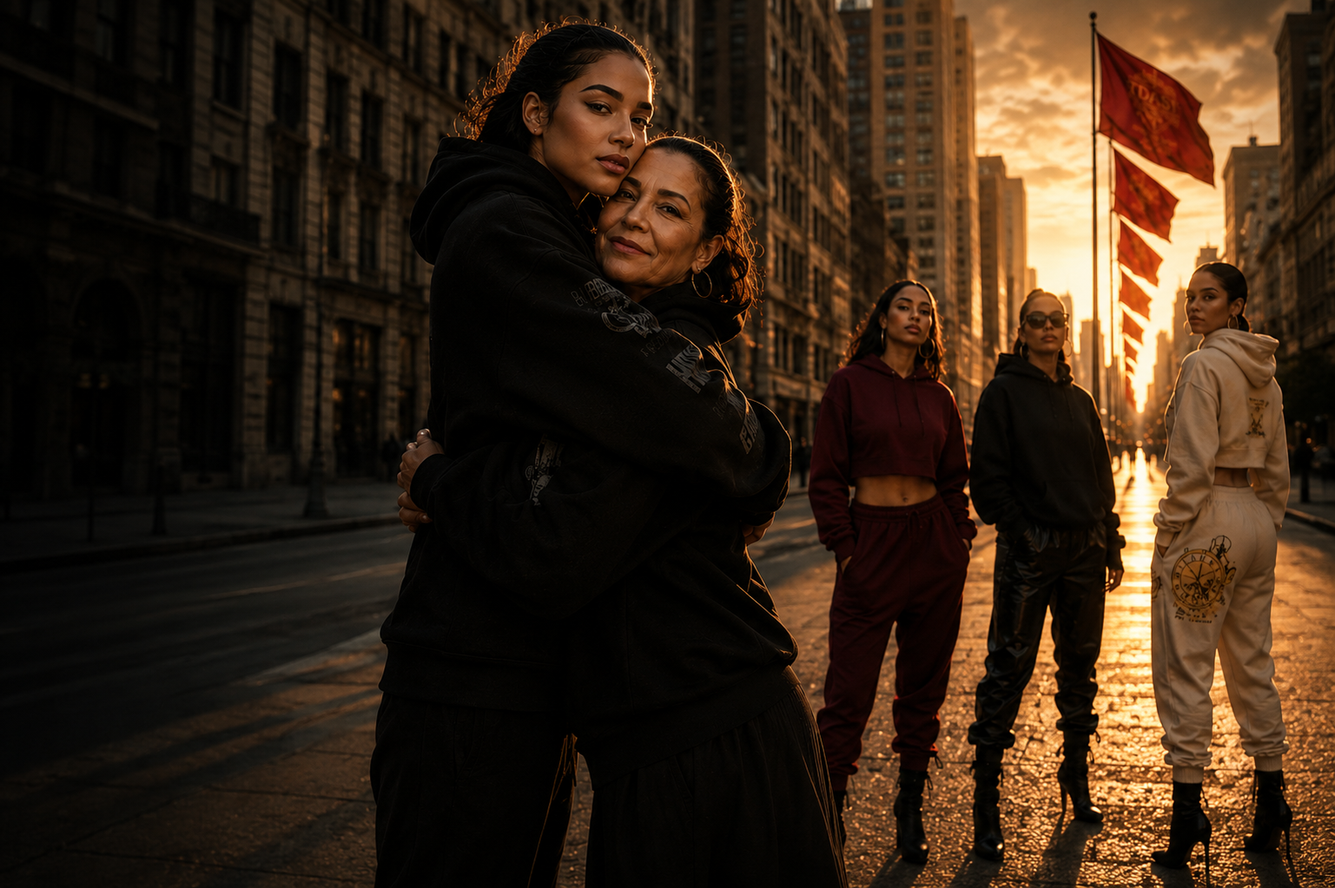
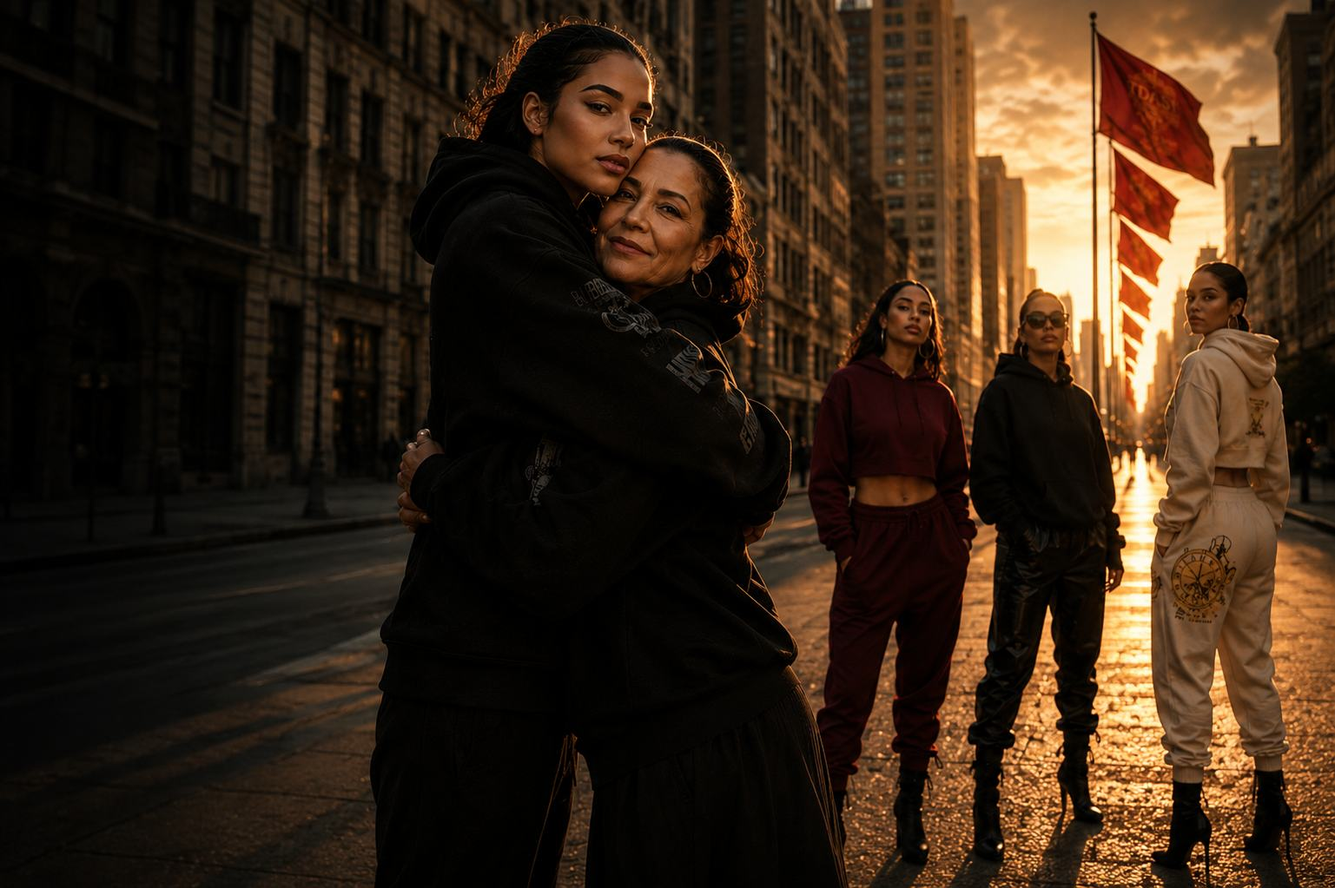
Add files via upload

diff --git a/index.html b/index.html
@@ -8,7 +8,7 @@
 <meta property="og:title" content="Red Flags & Receipts — She Raised Me Right">
 <meta property="og:description" content="A tribute to the women who taught us strength, intuition, grace and resilience.">
 <meta property="og:type" content="website">
-<meta property="og:image" content="images/hero.png">
+<meta property="og:image" content="images/hero.jpg">
 <meta name="theme-color" content="#050505">
 <link rel="preconnect" href="https://fonts.googleapis.com">
 <link rel="preconnect" href="https://fonts.gstatic.com" crossorigin>
@@ -18,9 +18,9 @@
 *{box-sizing:border-box}html{scroll-behavior:smooth}body{margin:0;background:var(--ink);color:var(--text);font-family:Inter,system-ui,sans-serif}body.menu-open{overflow:hidden}a{color:inherit;text-decoration:none}button,input,textarea{font:inherit}.shell{width:min(1180px,92vw);margin:auto}
 .top-signup{background:#070707;border-bottom:1px solid var(--line);padding:14px 0;position:relative;z-index:30}.signup-row{display:grid;grid-template-columns:auto 1fr 1fr 1.4fr auto;gap:10px;align-items:center}.signup-row strong{font-family:"Cormorant Garamond",serif;color:var(--gold2);font-size:1.15rem;white-space:nowrap}.field{width:100%;border:1px solid var(--line);background:#101010;color:#fff;border-radius:999px;padding:12px 15px;outline:none}.field:focus{border-color:var(--gold)}.gold-btn,.ghost-btn{border-radius:999px;padding:13px 22px;letter-spacing:.11em;text-transform:uppercase;font-weight:700;cursor:pointer;transition:.25s;border:1px solid var(--gold)}.gold-btn{background:linear-gradient(135deg,var(--gold2),var(--gold));color:#111}.gold-btn:hover{transform:translateY(-2px);box-shadow:0 10px 28px rgba(217,170,91,.25)}.ghost-btn{background:rgba(0,0,0,.3);color:#fff}.ghost-btn:hover{background:rgba(217,170,91,.12)}.form-note{grid-column:2/-1;font-size:.8rem;color:var(--gold2);min-height:1em}
 .site-header{position:sticky;top:0;z-index:20;background:rgba(5,5,5,.78);backdrop-filter:blur(16px);border-bottom:1px solid rgba(255,255,255,.06)}.nav{height:74px;display:flex;align-items:center;justify-content:space-between}.brand{font-family:"Cormorant Garamond",serif;color:var(--gold);font-size:1.7rem;font-weight:700;letter-spacing:.03em}.nav-links{display:flex;gap:28px;align-items:center}.nav-links a{font-size:.9rem;color:#eee}.nav-links a:hover{color:var(--gold2)}.menu-btn{display:none;background:none;border:1px solid var(--line);color:#fff;border-radius:50%;width:44px;height:44px;font-size:1.25rem}
-.hero{min-height:720px;display:grid;place-items:center;position:relative;overflow:hidden;background:linear-gradient(90deg,rgba(0,0,0,.88) 0%,rgba(0,0,0,.64) 42%,rgba(0,0,0,.26) 100%),url('images/hero.png') center/cover no-repeat}.hero:after{content:"";position:absolute;inset:auto 0 0;height:150px;background:linear-gradient(transparent,var(--ink))}.hero-inner{position:relative;z-index:2;width:min(1180px,92vw);padding:80px 0}.hero-copy{max-width:640px}.kicker{color:var(--gold2);letter-spacing:.28em;text-transform:uppercase;font-size:.75rem;font-weight:700}.hero h1{font-family:"Cormorant Garamond",serif;font-size:clamp(4.4rem,8vw,8rem);line-height:.78;margin:18px 0 28px;text-wrap:balance}.hero p{font-size:1.08rem;line-height:1.75;color:#eee;max-width:590px}.countdown{display:grid;grid-template-columns:repeat(4,minmax(70px,1fr));gap:10px;max-width:560px;margin:34px 0}.timebox{border:1px solid var(--line);background:rgba(8,8,8,.55);backdrop-filter:blur(8px);border-radius:16px;padding:14px;text-align:center}.timebox b{display:block;font-family:"Cormorant Garamond",serif;font-size:2.4rem;color:var(--gold2)}.timebox span{font-size:.66rem;letter-spacing:.15em;text-transform:uppercase;color:#ddd}.hero-actions{display:flex;gap:12px;flex-wrap:wrap}
+.hero{min-height:720px;display:grid;place-items:center;position:relative;overflow:hidden;background:linear-gradient(90deg,rgba(0,0,0,.88) 0%,rgba(0,0,0,.64) 42%,rgba(0,0,0,.26) 100%),url('images/hero.jpg') center/cover no-repeat}.hero:after{content:"";position:absolute;inset:auto 0 0;height:150px;background:linear-gradient(transparent,var(--ink))}.hero-inner{position:relative;z-index:2;width:min(1180px,92vw);padding:80px 0}.hero-copy{max-width:640px}.kicker{color:var(--gold2);letter-spacing:.28em;text-transform:uppercase;font-size:.75rem;font-weight:700}.hero h1{font-family:"Cormorant Garamond",serif;font-size:clamp(4.4rem,8vw,8rem);line-height:.78;margin:18px 0 28px;text-wrap:balance}.hero p{font-size:1.08rem;line-height:1.75;color:#eee;max-width:590px}.countdown{display:grid;grid-template-columns:repeat(4,minmax(70px,1fr));gap:10px;max-width:560px;margin:34px 0}.timebox{border:1px solid var(--line);background:rgba(8,8,8,.55);backdrop-filter:blur(8px);border-radius:16px;padding:14px;text-align:center}.timebox b{display:block;font-family:"Cormorant Garamond",serif;font-size:2.4rem;color:var(--gold2)}.timebox span{font-size:.66rem;letter-spacing:.15em;text-transform:uppercase;color:#ddd}.hero-actions{display:flex;gap:12px;flex-wrap:wrap}
 section{padding:92px 0}.section-head{text-align:center;max-width:760px;margin:0 auto 46px}.section-head h2{font-family:"Cormorant Garamond",serif;color:var(--gold2);font-size:clamp(2.8rem,5vw,4.6rem);margin:0 0 12px}.section-head p{color:var(--muted);line-height:1.7}.story-grid{display:grid;grid-template-columns:1.05fr .95fr;gap:34px;align-items:center}.story-image img{width:100%;border-radius:var(--radius);display:block;box-shadow:0 25px 80px #000}.story-copy{padding:20px}.story-copy h3{font-family:"Cormorant Garamond",serif;font-size:3.1rem;line-height:1;margin:10px 0 22px}.story-copy p{color:#d1cec8;line-height:1.8}.story-copy em{color:var(--gold2);font-style:normal}
-.products{display:grid;grid-template-columns:repeat(3,1fr);gap:22px}.product{background:var(--panel);border:1px solid var(--line);border-radius:var(--radius);overflow:hidden;cursor:pointer;transition:.28s}.product:hover{transform:translateY(-6px);border-color:var(--gold)}.product-media{height:360px;background:#f3f0e9;display:grid;place-items:center;overflow:hidden}.product-media img{width:100%;height:100%;object-fit:contain;transition:.45s}.product:hover img{transform:scale(1.035)}.product-info{padding:20px}.product-info h3{margin:0 0 8px;color:var(--gold2);font-family:"Cormorant Garamond",serif;font-size:1.65rem}.product-info p{margin:0;color:var(--muted);font-size:.92rem;line-height:1.55}.tag{display:inline-block;margin-top:14px;font-size:.68rem;letter-spacing:.12em;text-transform:uppercase;color:var(--gold)}
+.products{display:grid;grid-template-columns:repeat(3,1fr);gap:22px}.product{background:var(--panel);border:1px solid var(--line);border-radius:var(--radius);overflow:hidden;cursor:pointer;transition:.28s}.product:hover{transform:translateY(-6px);border-color:var(--gold)}.product-media{height:360px;background:#f3f0e9;display:grid;place-items:center;overflow:hidden;padding:24px;position:relative}.product-media img{width:100%;height:100%;max-width:88%;max-height:88%;object-fit:contain;object-position:center;transition:.45s}.view-badge{position:absolute;right:12px;bottom:12px;background:rgba(0,0,0,.72);color:#f0cf92;border:1px solid rgba(217,170,91,.45);border-radius:999px;padding:6px 10px;font-size:.64rem;letter-spacing:.12em;text-transform:uppercase}.view-switch{display:flex;gap:8px;margin:12px 0 18px}.view-switch button{flex:1;border:1px solid var(--line);background:#151515;color:#ddd;border-radius:999px;padding:10px;cursor:pointer}.view-switch button.active{border-color:var(--gold);color:var(--gold2);background:rgba(217,170,91,.10)}.product:hover img{transform:scale(1.035)}.product-info{padding:20px}.product-info h3{margin:0 0 8px;color:var(--gold2);font-family:"Cormorant Garamond",serif;font-size:1.65rem}.product-info p{margin:0;color:var(--muted);font-size:.92rem;line-height:1.55}.tag{display:inline-block;margin-top:14px;font-size:.68rem;letter-spacing:.12em;text-transform:uppercase;color:var(--gold)}
 .quote{padding:120px 0;background:radial-gradient(circle at 50% 50%,rgba(217,170,91,.12),transparent 58%);text-align:center}.quote blockquote{font-family:"Cormorant Garamond",serif;font-size:clamp(2.8rem,6vw,5.7rem);line-height:.95;color:var(--gold2);margin:0 auto;max-width:980px}.join-card{border:1px solid var(--line);border-radius:30px;background:linear-gradient(135deg,#111,#080808);padding:54px;box-shadow:0 24px 80px #000}.join-form{display:grid;grid-template-columns:1fr 1fr;gap:12px;max-width:850px;margin:26px auto 0}.join-form textarea{grid-column:1/-1;border-radius:18px;min-height:90px;resize:vertical}.join-form button{grid-column:1/-1;justify-self:center}.join-status{text-align:center;margin-top:12px;color:var(--gold2);min-height:1em}
 footer{border-top:1px solid rgba(255,255,255,.08);padding:44px 0 60px;color:#999}.foot{display:flex;justify-content:space-between;gap:28px;align-items:center;flex-wrap:wrap}.foot-links{display:flex;gap:18px;flex-wrap:wrap}.foot button,.foot a{background:none;border:0;color:#aaa;cursor:pointer;padding:0}.foot button:hover,.foot a:hover{color:var(--gold2)}
 .modal{position:fixed;inset:0;background:rgba(0,0,0,.78);display:none;place-items:center;z-index:99;padding:20px}.modal.open{display:grid}.modal-card{width:min(650px,96vw);max-height:88vh;overflow:auto;background:#0d0d0d;border:1px solid var(--line);border-radius:24px;padding:30px;box-shadow:0 30px 100px #000}.modal-close{float:right;background:none;border:1px solid var(--line);color:#fff;border-radius:50%;width:40px;height:40px;cursor:pointer}.modal-card h2{font-family:"Cormorant Garamond",serif;color:var(--gold2);font-size:2.4rem;margin:6px 0 14px}.modal-card p{line-height:1.75;color:#ccc}.product-detail-img{width:100%;max-height:430px;object-fit:contain;background:#eee;border-radius:16px;margin:10px 0 20px}
@@ -68,11 +68,11 @@ footer{border-top:1px solid rgba(255,255,255,.08);padding:44px 0 60px;color:#999
 </section>
 <section id="story"><div class="shell story-grid"><div class="story-image"><img src="images/hero2.jpg" alt="Mother and daughter from the She Raised Me Right campaign" loading="lazy"></div><div class="story-copy"><div class="kicker">The story behind the collection</div><h3>She didn't just raise me.<br><em>She built the blueprint.</em></h3><p>This collection is a thank-you letter to the women whose warnings, wisdom, sacrifice and strength shaped who we became. It is made for the lessons we carry, the receipts we keep, and the legacy we pass forward.</p></div></div></section>
 <section id="collection"><div class="shell"><div class="section-head"><h2>The Collection</h2><p>Luxury keepsakes and statement pieces designed to celebrate strength, femininity and legacy. Tap any piece for details.</p></div><div class="products">
-  <article class="product" tabindex="0" data-title="Legacy Crewneck" data-desc="A soft statement piece built around the words and lessons that stay with us." data-img="images/white-crewneck-front.PNG"><div class="product-media"><img src="images/white-crewneck-front.PNG" alt="Legacy Crewneck" loading="lazy"></div><div class="product-info"><h3>Legacy Crewneck</h3><p>Built from lessons. Worn with pride.</p><span class="tag">View piece</span></div></article>
-  <article class="product" tabindex="0" data-title="Legacy Keychain" data-desc="A daily keepsake designed to carry the reminder with you." data-img="images/keychain-front.PNG"><div class="product-media"><img src="images/keychain-front.PNG" alt="Legacy Keychain" loading="lazy"></div><div class="product-info"><h3>Legacy Keychain</h3><p>Carry her wisdom everywhere.</p><span class="tag">View piece</span></div></article>
-  <article class="product" tabindex="0" data-title="Legacy Pendant" data-desc="A polished keepsake made to sit close and last beyond the moment." data-img="images/pendant-front.PNG"><div class="product-media"><img src="images/pendant-front.PNG" alt="Legacy Pendant" loading="lazy"></div><div class="product-info"><h3>Legacy Pendant</h3><p>A keepsake that lasts.</p><span class="tag">View piece</span></div></article>
-  <article class="product" tabindex="0" data-title="Tribute Piece" data-desc="Created in her honor — a piece that turns gratitude into something tangible." data-img="images/tribute-front.PNG"><div class="product-media"><img src="images/tribute-front.PNG" alt="Tribute piece" loading="lazy"></div><div class="product-info"><h3>Tribute Collection</h3><p>Designed in her honor.</p><span class="tag">View piece</span></div></article>
-  <article class="product" tabindex="0" data-title="Legacy Wine Glass" data-desc="For the toast, the story, and the woman who deserves both." data-img="images/wineglass-front (3).PNG"><div class="product-media"><img src="images/wineglass-front (3).PNG" alt="Legacy Wine Glass" loading="lazy"></div><div class="product-info"><h3>Legacy Wine Glass</h3><p>Raise a glass to the women who raised us.</p><span class="tag">View piece</span></div></article>
+  <article class="product" tabindex="0" data-title="Legacy Crewneck" data-desc="A soft statement piece built around the words and lessons that stay with us." data-img="images/white-crewneck-front.jpg"><div class="product-media"><img src="images/white-crewneck-front.jpg" alt="Legacy Crewneck" loading="lazy"></div><div class="product-info"><h3>Legacy Crewneck</h3><p>Built from lessons. Worn with pride.</p><span class="tag">View piece</span></div></article>
+  <article class="product" tabindex="0" data-title="Legacy Keychain" data-desc="A daily keepsake designed to carry the reminder with you." data-img="images/keychain-front.jpg" data-back="images/keychain-back.jpg"><div class="product-media"><img src="images/keychain-front.jpg" alt="Legacy Keychain" loading="lazy"><span class="view-badge">Front + Back</span></div><div class="product-info"><h3>Legacy Keychain</h3><p>Carry her wisdom everywhere.</p><span class="tag">View piece</span></div></article>
+  <article class="product" tabindex="0" data-title="Legacy Pendant" data-desc="A polished keepsake made to sit close and last beyond the moment." data-img="images/pendant-front.jpg" data-back="images/pendant-back.jpg"><div class="product-media"><img src="images/pendant-front.jpg" alt="Legacy Pendant" loading="lazy"><span class="view-badge">Front + Back</span></div><div class="product-info"><h3>Legacy Pendant</h3><p>A keepsake that lasts.</p><span class="tag">View piece</span></div></article>
+  <article class="product" tabindex="0" data-title="Tribute Piece" data-desc="Created in her honor — a piece that turns gratitude into something tangible." data-img="images/tribute-front.jpg" data-back="images/tribute-back.jpg"><div class="product-media"><img src="images/tribute-front.jpg" alt="Tribute piece" loading="lazy"><span class="view-badge">Front + Back</span></div><div class="product-info"><h3>Tribute Collection</h3><p>Designed in her honor.</p><span class="tag">View piece</span></div></article>
+  <article class="product" tabindex="0" data-title="Legacy Wine Glass" data-desc="For the toast, the story, and the woman who deserves both." data-img="images/wineglass-front (3).jpg" data-back="images/wineglass-back.jpg"><div class="product-media"><img src="images/wineglass-front (3).jpg" alt="Legacy Wine Glass" loading="lazy"><span class="view-badge">Front + Back</span></div><div class="product-info"><h3>Legacy Wine Glass</h3><p>Raise a glass to the women who raised us.</p><span class="tag">View piece</span></div></article>
   <article class="product" tabindex="0" data-title="Limited Pieces" data-desc="Small-run Red Flags & Receipts pieces available around launch. Join the list for first access." data-img="images/hero2.jpg"><div class="product-media"><img src="images/hero2.jpg" alt="Limited Red Flags and Receipts collection" loading="lazy"></div><div class="product-info"><h3>Limited Pieces</h3><p>Small run. Big meaning.</p><span class="tag">View piece</span></div></article>
 </div></div></section>
 <section class="quote"><div class="shell"><blockquote>“She didn't just raise me.<br>She built the blueprint.”</blockquote></div></section>
@@ -89,14 +89,14 @@ $$('input[type="tel"]').forEach(input=>input.addEventListener('input',()=>{let x
 $$('.signup-form').forEach(form=>form.addEventListener('submit',async e=>{e.preventDefault();const note=form.querySelector('.form-note');const btn=form.querySelector('button[type="submit"]');note.textContent='Sending…';btn.disabled=true;try{const r=await fetch(form.action,{method:'POST',body:new FormData(form),headers:{Accept:'application/json'}});if(!r.ok)throw new Error();form.reset();note.textContent="You're on the list! We'll be in touch.";}catch(err){note.textContent='We could not submit that just now. Please try again.';}finally{btn.disabled=false}}));
 $('#calendarBtn').addEventListener('click',()=>{const ics=['BEGIN:VCALENDAR','VERSION:2.0','PRODID:-//Red Flags & Receipts//Launch//EN','BEGIN:VEVENT','UID:redflags-20260819@redflagsandreceipts.com','DTSTAMP:20260819T100000Z','DTSTART:20260819T100000Z','DTEND:20260819T110000Z','SUMMARY:Red Flags & Receipts — She Raised Me Right Launch','DESCRIPTION:The She Raised Me Right collection is live.','END:VEVENT','END:VCALENDAR'].join('\r\n');const a=document.createElement('a');a.href=URL.createObjectURL(new Blob([ics],{type:'text/calendar'}));a.download='Red-Flags-and-Receipts-Launch.ics';a.click();URL.revokeObjectURL(a.href)});
 const modal=$('#infoModal'), body=$('#modalBody');function openModal(html){body.innerHTML=html;modal.classList.add('open');$('.modal-close').focus()}function closeModal(){modal.classList.remove('open')}
-$$('.product').forEach(card=>{const show=()=>openModal(`<img class="product-detail-img" src="${card.dataset.img}" alt=""><h2 id="modalTitle">${card.dataset.title}</h2><p>${card.dataset.desc}</p><p><strong style="color:var(--gold2)">Launching August 19.</strong> Join the list for first access.</p>`);card.addEventListener('click',show);card.addEventListener('keydown',e=>{if(e.key==='Enter'||e.key===' '){e.preventDefault();show()}})});
+$$('.product').forEach(card=>{const show=()=>{const back=card.dataset.back;openModal(`<img class="product-detail-img" id="productDetailImg" src="${card.dataset.img}" alt="${card.dataset.title} front view">${back?`<div class="view-switch"><button type="button" class="active" data-view="front">Front</button><button type="button" data-view="back">Back</button></div>`:''}<h2 id="modalTitle">${card.dataset.title}</h2><p>${card.dataset.desc}</p><p><strong style="color:var(--gold2)">Launching August 19.</strong> Join the list for first access.</p>`);if(back){$$('.view-switch button').forEach(btn=>btn.addEventListener('click',()=>{const isBack=btn.dataset.view==='back';$('#productDetailImg').src=isBack?back:card.dataset.img;$('#productDetailImg').alt=`${card.dataset.title} ${isBack?'back':'front'} view`;$$('.view-switch button').forEach(b=>b.classList.toggle('active',b===btn))}))}};card.addEventListener('click',show);card.addEventListener('keydown',e=>{if(e.key==='Enter'||e.key===' '){e.preventDefault();show()}})});
 const copy={privacy:`<h2 id="modalTitle">Privacy</h2><p>Information submitted through this site is used to respond to you and send launch or collection updates you request. Do not submit sensitive information through the forms.</p><p>You may request removal from future messages at any time by contacting us.</p>`,terms:`<h2 id="modalTitle">Terms</h2><p>This launch page previews the Red Flags & Receipts collection. Product availability, final pricing and release quantities may change before launch. Content and brand materials are owned by Red Flags & Receipts unless otherwise stated.</p>`};
[1 lines of base64/hex data omitted]
 function momGate(){openModal(`<div class="mom-lock"><div class="lock-icon">✦</div><div class="birthday-kicker">A private birthday surprise</div><h2 id="modalTitle">For Mom Only</h2><p class="secret-note">There is something waiting behind this door that was made just for you.</p><form class="mom-pass" id="momPassForm"><input class="field" id="momPassword" type="password" placeholder="Enter the secret password" autocomplete="off" aria-label="Birthday surprise password"><button class="gold-btn" type="submit">Open My Surprise</button></form><p class="mom-error" id="momError" aria-live="polite"></p><p style="font-size:.74rem;color:#80796f;margin-top:16px">Hint: lowercase, no spaces.</p></div>`);setTimeout(()=>$('#momPassword')?.focus(),80)}
 async function sha256(text){const data=new TextEncoder().encode(text);const hash=await crypto.subtle.digest('SHA-256',data);return [...new Uint8Array(hash)].map(b=>b.toString(16).padStart(2,'0')).join('')}
 function confettiBurst(){const colors=['#d9aa5b','#f0cf92','#ffffff','#8e122a','#e7c57f'];for(let i=0;i<90;i++){const c=document.createElement('i');c.className='confetti';c.style.left=Math.random()*100+'vw';c.style.background=colors[Math.floor(Math.random()*colors.length)];c.style.setProperty('--dur',(2.8+Math.random()*2.8)+'s');c.style.setProperty('--drift',((Math.random()-.5)*240)+'px');c.style.setProperty('--rot',(Math.random()*180)+'deg');document.body.appendChild(c);setTimeout(()=>c.remove(),6000)}}
 function heartBurst(){for(let i=0;i<16;i++){setTimeout(()=>{const h=document.createElement('span');h.className='heart-pop';h.textContent=i%3===0?'✦':'♥';h.style.left=(38+Math.random()*24)+'vw';h.style.top=(45+Math.random()*20)+'vh';h.style.color=i%2?'#f0cf92':'#fff';document.body.appendChild(h);setTimeout(()=>h.remove(),2400)},i*55)}}
-function showMomSurprise(){body.innerHTML=`<div class="mom-surprise"><div class="birthday-kicker">August 19 • This one is yours</div><h2 id="modalTitle">Happy Birthday, Mom.<em>You are the reason this exists.</em></h2><img class="mom-hero" src="images/hero2.jpg" alt="She Raised Me Right birthday tribute"><p class="birthday-lead">Before there was a collection, a launch, or a name for any of this — there was you.</p><p class="birthday-copy">You taught me how to trust myself, how to keep going, how to laugh through the hard parts, and how to know when something just isn't right. Every lesson became part of me. Every warning became wisdom. Every bit of strength you gave me found its way here.</p><div class="birthday-divider"></div><p class="birthday-lead">So on your birthday, I wanted the world to see what I already know:</p><p class="birthday-copy"><strong style="color:var(--gold2);font-size:1.15rem">She Raised Me Right.</strong><br>This is more than a drop. It's a thank-you. It's a love letter. It's proof that what you poured into me kept growing.</p><div class="memory-grid"><img src="images/tribute-front.PNG" alt="Birthday tribute piece"><img src="images/pendant-front.PNG" alt="Legacy pendant"><img src="images/keychain-front.PNG" alt="Legacy keychain"></div><button class="gold-btn letter-btn" id="openLetter" type="button">Open Your Letter</button><div class="mom-letter" id="momLetter"><h3>Mom,</h3><p>There aren't enough words for everything you've given me, so I made something instead. I made a collection around the truth that has followed me everywhere: <strong>you raised me right.</strong></p><p>Thank you for the strength, the instincts, the standards, the stories, the warnings, the humor, and the love. Thank you for being the blueprint even when I didn't realize I was studying it.</p><p>I hope this birthday surprise makes you feel even a fraction of how celebrated you deserve to feel. This launch may have my name on the work, but your fingerprints are all over the woman who made it.</p><p class="mom-signoff">Happy Birthday, Mama.<br>I love you. Always. ♥</p></div><p style="margin-top:24px;font-size:.72rem;letter-spacing:.16em;text-transform:uppercase;color:#827a70">A private page made with love • Red Flags & Receipts</p></div>`;confettiBurst();heartBurst();$('#openLetter').addEventListener('click',()=>{const l=$('#momLetter');l.classList.add('open');$('#openLetter').textContent='With All My Love ♥';$('#openLetter').disabled=true;l.scrollIntoView({behavior:'smooth',block:'nearest'});heartBurst()})}
+function showMomSurprise(){body.innerHTML=`<div class="mom-surprise"><div class="birthday-kicker">August 19 • This one is yours</div><h2 id="modalTitle">Happy Birthday, Mom.<em>You are the reason this exists.</em></h2><img class="mom-hero" src="images/hero2.jpg" alt="She Raised Me Right birthday tribute"><p class="birthday-lead">Before there was a collection, a launch, or a name for any of this — there was you.</p><p class="birthday-copy">You taught me how to trust myself, how to keep going, how to laugh through the hard parts, and how to know when something just isn't right. Every lesson became part of me. Every warning became wisdom. Every bit of strength you gave me found its way here.</p><div class="birthday-divider"></div><p class="birthday-lead">So on your birthday, I wanted the world to see what I already know:</p><p class="birthday-copy"><strong style="color:var(--gold2);font-size:1.15rem">She Raised Me Right.</strong><br>This is more than a drop. It's a thank-you. It's a love letter. It's proof that what you poured into me kept growing.</p><div class="memory-grid"><img src="images/tribute-front.jpg" alt="Birthday tribute piece"><img src="images/pendant-front.jpg" alt="Legacy pendant"><img src="images/keychain-front.jpg" alt="Legacy keychain"></div><button class="gold-btn letter-btn" id="openLetter" type="button">Open Your Letter</button><div class="mom-letter" id="momLetter"><h3>Mom,</h3><p>There aren't enough words for everything you've given me, so I made something instead. I made a collection around the truth that has followed me everywhere: <strong>you raised me right.</strong></p><p>Thank you for the strength, the instincts, the standards, the stories, the warnings, the humor, and the love. Thank you for being the blueprint even when I didn't realize I was studying it.</p><p>I hope this birthday surprise makes you feel even a fraction of how celebrated you deserve to feel. This launch may have my name on the work, but your fingerprints are all over the woman who made it.</p><p class="mom-signoff">Happy Birthday, Mama.<br>I love you. Always. ♥</p></div><p style="margin-top:24px;font-size:.72rem;letter-spacing:.16em;text-transform:uppercase;color:#827a70">A private page made with love • Red Flags & Receipts</p></div>`;confettiBurst();heartBurst();$('#openLetter').addEventListener('click',()=>{const l=$('#momLetter');l.classList.add('open');$('#openLetter').textContent='With All My Love ♥';$('#openLetter').disabled=true;l.scrollIntoView({behavior:'smooth',block:'nearest'});heartBurst()})}
 $$('[data-modal]').forEach(b=>b.addEventListener('click',()=>b.dataset.modal==='mom'?momGate():openModal(copy[b.dataset.modal])));
 modal.addEventListener('submit',async e=>{if(e.target?.id!=='momPassForm')return;e.preventDefault();const val=$('#momPassword').value.trim();const err=$('#momError');err.textContent='Checking…';try{if(await sha256(val)===MOM_HASH){showMomSurprise()}else{err.textContent='That one did not open it. Try again ♥';$('#momPassword').select()}}catch{err.textContent='This browser could not check the password. Please try another browser.'}});$('.modal-close').addEventListener('click',closeModal);modal.addEventListener('click',e=>{if(e.target===modal)closeModal()});document.addEventListener('keydown',e=>{if(e.key==='Escape')closeModal()});
 </script>
